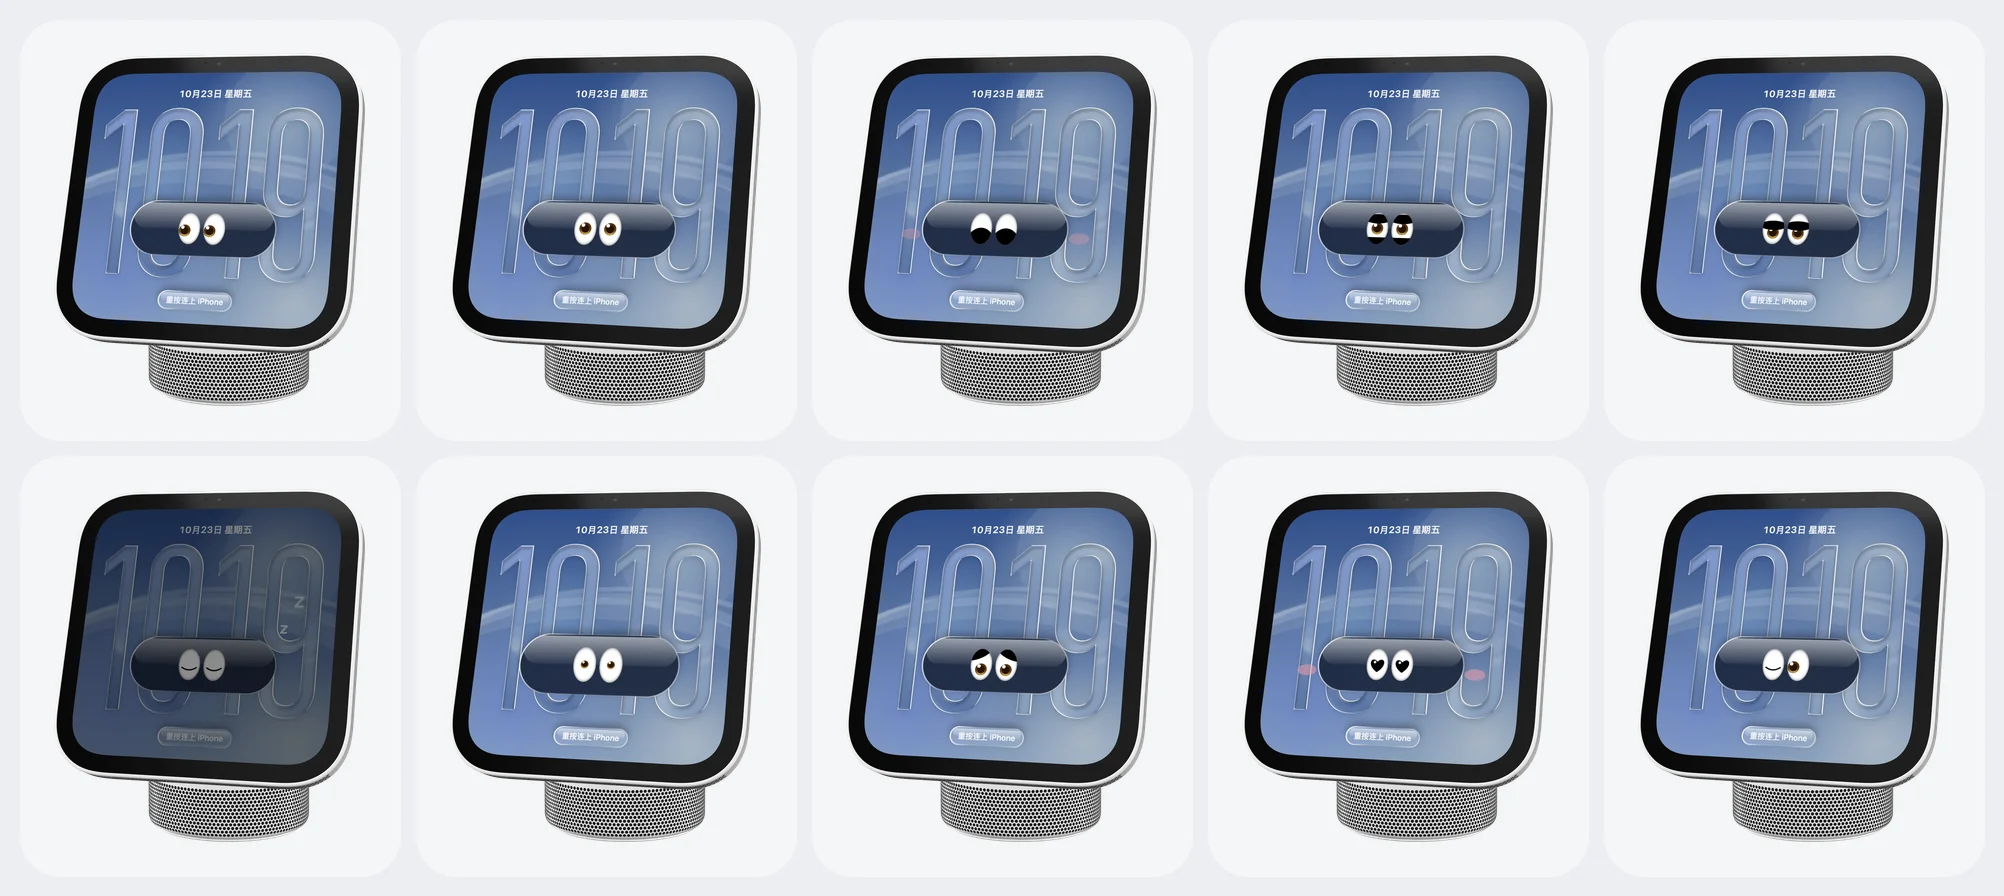
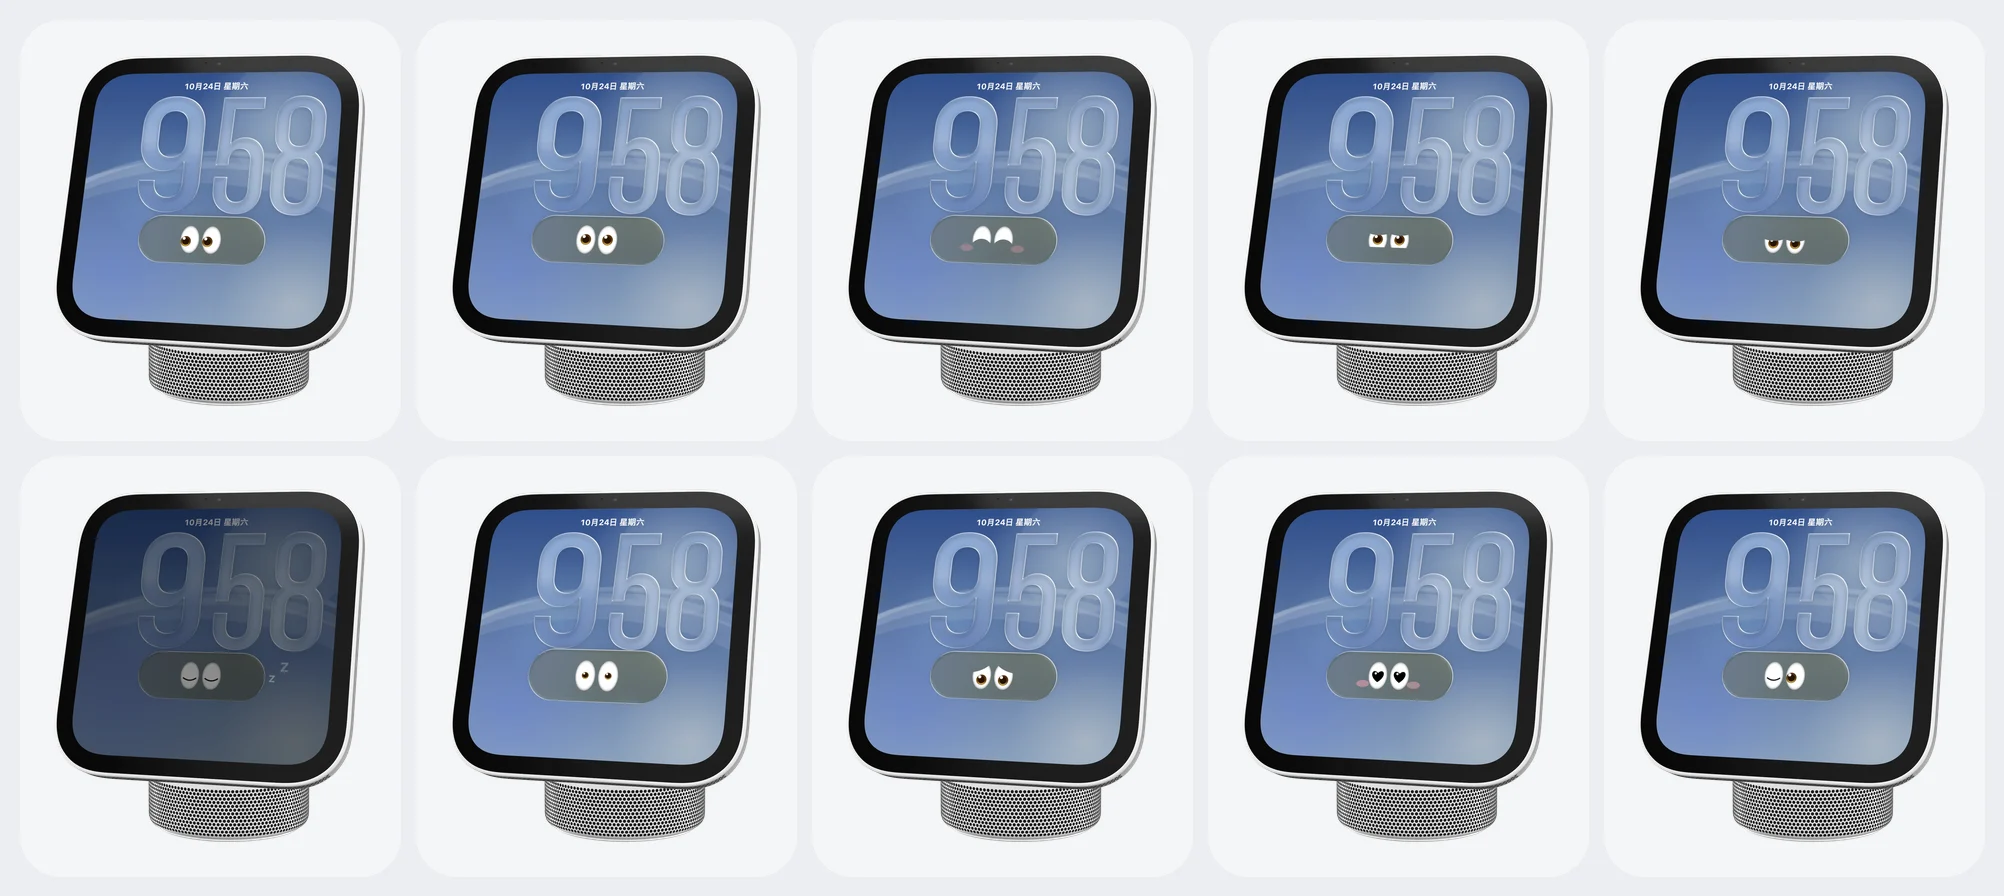
Sync public snapshot (e077dfb)

diff --git a/README.en.md b/README.en.md
@@ -1,7 +1,7 @@
 <div align="center">
   <img src="assets/github/hero-v2.gif" alt="HomePlay: an eye close-up pulls back into a tiny 3D HomeView on a Mac desktop" width="720">
   <h1>HomePlay</h1>
-  <p><strong>It looks at you, and brings CarPlay to your Mac.</strong></p>
+  <p><strong>It watches you, and brings CarPlay to your Mac.</strong></p>
   <p>HomeView, made into a desk pet for your Mac: try the HomeView software before the hardware ships.</p>
   <p><a href="README.md">简体中文</a> · <a href="https://homeplay.aaronlau.me/en/">Website</a></p>
   <p>
@@ -15,26 +15,45 @@
 
 > Experimental personal project. Not affiliated with, endorsed by, or certified by Apple. CarPlay and HomeView are trademarks of Apple Inc. Use at your own risk.
 
-## ⭐ Features
+## What it is
 
-- **Plug in once, then wireless.** Pairing works like a Magic accessory: connect the iPhone to the Mac with a cable once, it switches to wireless when pairing is done, and unplugging later doesn't drop CarPlay.
-- **Ten expressions, many faces.** Ten expressions and a set of faces (Liquid Glass numerals, Flow bubbles, Modular, Analog, Bedside…) to add a little life to ordinary days, and help you feel a bit more calm and at ease.
-- **Press a little harder, and it's CarPlay.** A continuous CarPlay experience on your Mac desktop. Unlike iPhone Mirroring, you can reach your iPhone's Siri through the Mac: hold F5 and just talk, completely hands-free, so work stays focused.
-- **More than CarPlay.** A Pomodoro timer, battery and Now Playing widgets, and an always-on-top window: like the iTunes MiniPlayer, but playing your iPhone's library, more flexible than AirPlay to Mac (F7–F9 skip tracks).
+A HomeView that lives on your Mac’s desktop. It has a pair of eyes that watch you, and one firm press turns it into your iPhone’s CarPlay.
+
+- **It watches you.** One pair of 👀, ten expressions. Come closer and it looks over, curious. Rest your pointer on it and it smiles. Leave it alone late at night and it dozes off. The eyes live in a capsule that matches the face’s era: solid black, smoked, or Liquid Glass.
+- **13 faces.** Laid out like Apple’s HomeView faces: Island, Photos, Modular, Typograph, Flow, Weather, Calendar, Embossed Hands, Days Together, Black, plus three System 6 throwbacks. The big time is the system’s own Liquid Glass, and you can pick its font and color the way you do on the iOS 27 Lock Screen.
+- **Press firmly for CarPlay.** Plug in once, then it’s wireless. Your iPhone sends real CarPlay video and sound to the little screen, and tapping it works like tapping the screen in a car. Hold F5 to talk to your iPhone’s Siri.
+- **Handy extras.** Focus timer, Now Playing, battery and your next event. F7–F9 skip tracks, and the window can float on top like a mini player for your iPhone’s library.
 
 <img src="assets/github/grid-v2.webp" alt="HomePlay front view, back view, real CarPlay music screen, and exploded anatomy" width="100%">
 
-| Faces | Ten expressions |
+| 13 faces | Ten expressions |
 |:---:|:---:|
-| <img src="assets/github/styles-v2.webp" alt="Island, Flow, Modular, Analog, Pocket and Bedside faces" width="100%"> | <img src="assets/github/faces-v2.webp" alt="Ten expressions made from the same pair of eyes" width="100%"> |
+| <img src="assets/github/styles-v2.webp" alt="HomePlay faces: Island, Flow, Modular, Typograph, Weather, Calendar, Embossed Hands and System 6" width="100%"> | <img src="assets/github/faces-v2.webp" alt="Ten expressions made from the same pair of eyes" width="100%"> |
 
-<img src="assets/github/finishes-v2.webp" alt="G4 white, silver, starlight, rose, and space gray finishes" width="100%">
+## First time: three steps
 
-## 💡 Before you start
+**Requires** macOS 14 or later on Apple silicon.
 
-- **Tested iPhones:** so far only an iPhone SE (1st generation, Lightning) on iOS 15 and an iPhone 18 Pro (USB-C) on iOS 27. Reports on other models are welcome.
-- **Gestures:** pinch to zoom, two-finger swipe to rotate, three-finger drag to move.
-- **It follows you:** the context menu has a DockKit-style follow mode, like the iMac G4 ad, and can match the room's light.
+1. [**Download HomePlay-macOS-arm64.zip**](https://github.com/surfine/HomePlay/releases/latest/download/HomePlay-macOS-arm64.zip), unzip, drag `HomePlay.app` into Applications and open it.
+2. Connect your iPhone to the Mac with a cable once, then tap Trust and Pair on the iPhone.
+3. Press firmly on the pet’s screen to enter CarPlay. After that you can unplug, and it reconnects wirelessly on its own.
+
+The app is signed with a Developer ID and notarized by Apple, so it opens straight away. To check the download: [`HomePlay-macOS-arm64.zip.sha256`](https://github.com/surfine/HomePlay/releases/latest/download/HomePlay-macOS-arm64.zip.sha256), `shasum -a 256 -c HomePlay-macOS-arm64.zip.sha256`.
+
+**Tested so far on two iPhones only:** an iPhone SE (1st generation, Lightning) on iOS 15 and an iPhone 18 Pro (USB-C) on iOS 27. Reports from other models are welcome.
+
+## How to use it
+
+| To… | Do this |
+|---|---|
+| Enter or leave CarPlay | Press firmly on the screen (Force Click) |
+| Talk to Siri | Hold F5 |
+| Change faces | Scroll or press ← →; press and hold the screen to see them all |
+| Turn it | Drag or two-finger swipe on the body; double-click to face front |
+| Zoom | Pinch, ⌥-scroll, or ⌘+ ⌘− ⌘0 |
+| Move it | Three-finger drag, or ⌘-drag |
+| Take it apart | Double-tap with two fingers |
+| Settings | Right-click, or ⌘, |
 
 ## 🧑🏻💻 From the developer
 
@@ -42,66 +61,19 @@
 >
 > I believe that in the age of AI, staying curious, freeing your imagination, being creative, keeping your judgment and learning to work together matter more than ever. I hope this little desk pet brings you some fun.
 
-## Install
+## Coming in 0.7.0
 
-**Requirements:** macOS 14 or later, Apple Silicon.
+These are done and waiting on real-device testing of wireless CarPlay; they ship as soon as that passes.
 
-[**Download HomePlay-macOS-arm64.zip**](https://github.com/surfine/HomePlay/releases/latest/download/HomePlay-macOS-arm64.zip), then:
-
-1. Unzip and drag `HomePlay.app` into Applications.
-2. Open it. The desk pet appears with its clock and eyes. No account, profile, or setup.
-3. For CarPlay, connect an iPhone over USB once and accept Trust and Pair on the iPhone.
-4. Press firmly on the pet to enter CarPlay. Unplugging switches to wireless after the first pairing.
-
-The release is Developer ID signed and notarized by Apple, so Gatekeeper opens it after unzipping. The matching checksum is [`HomePlay-macOS-arm64.zip.sha256`](https://github.com/surfine/HomePlay/releases/latest/download/HomePlay-macOS-arm64.zip.sha256). Verify with `shasum -a 256 -c HomePlay-macOS-arm64.zip.sha256`.
-
-## What's new in 0.6.1
-
-- **The system's own Liquid Glass.** The big numerals are drawn by the same engine macOS 27 uses for Liquid Glass: the lensing, the thickness and the rim light all match the system. On Flow, the rims follow you.
-- **Font & Color.** Like the iOS 27 Lock Screen: six system clock fonts with a weight slider, swatches (or match the wallpaper) with a tone slider, Glass or Solid. Right-click › Faces › Font & Color, or Settings › Appearance.
-- **The system clock numerals.** The same digits as the iOS Lock Screen, which grow taller without distorting; the hairline inside the "9" is gone.
-- **Lighter on power.** Idle CPU down from about 9% to about 5%.
-
-[Full release notes](https://github.com/surfine/HomePlay/releases/tag/v0.6.1)
-
-## Technical details
-
-- **Real CarPlay**: wireless (Bluetooth iAP2 to Wi-Fi) or wired USB, H.264 and HEVC video, touch sent back to the iPhone, sound through the Mac, and Now Playing in Control Center.
-- **Built from the official product**: Apple's HomeView USDZ geometry and materials, five finishes, a back USB-C port, and RealityKit IBL at Quick Look quality.
-- **Quiet and power-aware**: idle turns into a static poster and the ARView leaves the window; occlusion and display sleep stop rendering. No notifications, no feedback, no telemetry.
-- **Zero setup**: the receiver finds the current Wi-Fi and matches the phone; pairing and unplugging switch automatically. No Keychain access and no admin password.
-- **Public-facing**: one instance, VoiceOver labels, English, Simplified Chinese and Traditional Chinese, localized permission strings, GPL source.
-
-## How it works
-
-```mermaid
-flowchart LR
-  iPhone[iPhone CarPlay] -- "USB / Wi-Fi + iAP2" --> Receiver[homeplay-receiver]
-  Receiver -- "WebSocket H.264 / HEVC" --> Pet[homeplay-pet, RealityKit]
-  Pet -- "HID touch" --> Receiver
-```
-
-## Gestures
-
-<details>
-<summary>All gestures</summary>
-
-| Gesture | Result |
-|---|---|
-| Drag, or two-finger swipe | Turn the body |
-| Three-finger drag, or ⌘ drag | Move it (drag the frame while streaming) |
-| Pinch, ⌘+, ⌘−, ⌘0 | Zoom (⌘0 resets) |
-| Press firmly | Enter or leave CarPlay |
-| Long press the screen | Change the face |
-| Double-click | Reset the angle |
-| Two-finger double tap | Take it apart or put it back |
-| ⌘H | Hide the pet (the menu bar icon brings it back) |
-
-</details>
+- **Eyes on every face.** The capsule follows each face’s era: solid black on the flat layouts, smoked on the iOS 27 ones, Liquid Glass on HomeView’s own, and a 1-bit button on System 6.
+- **New faces:** Weather, Calendar, Embossed Hands, Black, and three System 6 faces rebuilt the way they looked in 1988 (Chicago type, 1-bit pixels).
+- **A Siri orb for F5.** While you talk, a colorful Siri orb rises on the screen; let go and it shrinks back.
+- **Type and corners closer to Apple’s.** The time uses SF Pro’s variable weight, width and optical size, and the capsule, cards and body corners stay concentric.
+- **No more ghosting when faces change,** and it sips less power while idle.
 
 ## Privacy and permissions
 
-HomePlay talks to no server. There is no account and no telemetry. Permissions are requested one feature at a time:
+There is no account and no telemetry. The only thing that goes online on its own is the Weather face, which sends your approximate location to Open-Meteo to look up local weather. Permissions are requested one feature at a time:
 
 | Permission | When it is asked | If denied |
 |---|---|---|
@@ -109,6 +81,7 @@ HomePlay talks to no server. There is no account and no telemetry. Permissions a
 | Microphone | The first CarPlay call or Siri request | The CarPlay screen and touch still work |
 | Bluetooth | The first iPhone pairing | USB still works |
 | Local Network | Receiving the CarPlay picture | CarPlay cannot connect |
+| Location (approximate) | The first time the Weather face appears | Weather shows the last known city, or no weather |
 | Calendar | When the calendar face is enabled | Other faces still work |
 | Automation | When Mac Now Playing is enabled | Other features still work |
 
